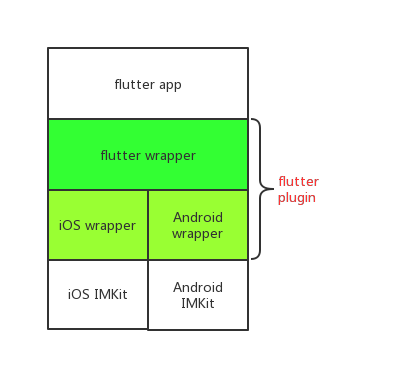
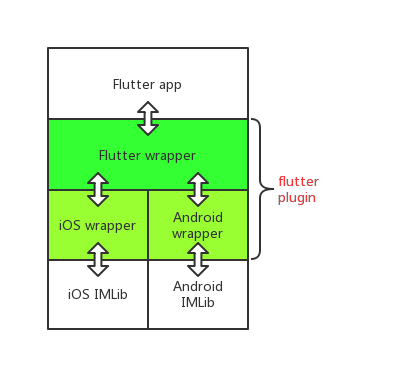
问题:更新二次开发问题 原因: 解决方案: Reviewer: 工单号: Log: X

diff --git a/doc/二次开发.md b/doc/二次开发.md
@@ -1,15 +1,24 @@
-# 融云 IM flutter plugin
+# 融云 IM Flutter Plugin
 
-本文档讲解如何二次开发 IM flutter plugin
+本文档讲解如何二次开发 IM Flutter Plugin
 
-[Flutter 官网](https://flutter.dev/)
+[Flutter 跨平台原理](https://flutter.dev/docs/development/platform-integration/platform-channels)
 
-#整体架构
+![](./../images/PlatformChannels.png)
+
+跨平台传输的数据类型对比
+
+![](./../images/PlatformChannelDataTypes.png)
+
+# 整体架构
 
 ![](./../images/flutter_plugin.png)
 
+其中绿色部分代表了整个 Flutter Plugin，包含 `Flutter wrapper`，`iOS wrapper`，`Android wrapper` 三个部分
 
-#目录结构
+双向箭头代表了代码的调用逻辑
+
+# 目录结构
 
 `android/`:Android wrapper
 
@@ -25,43 +34,24 @@
 
 `example/lib/`：Flutter app
 
-#原理
+# 原理
 
-Futter 通过 `MethodChannel` 实现与 native 的交互，可以详细[参见官网介绍](https://flutter.dev/docs/development/platform-integration/platform-channels)
+Futter 通过 `MethodChannel` 实现与 native 的交互
 
-`调用任何接口，Flutter 都会把 methodname 和 arguments 传递出去，native 需要根据 methodname 知道 Flutter 的操作，然后根据具体的 arguments 处理，反之 native 调用 flutter 也是如此`
+`调用任何接口，Flutter 都通过 MethodChannel 把 methodname 和 arguments 传递出去，native 接收然后根据 methodname 知道 Flutter 的操作，然后根据具体的 arguments 处理，反之 native 调用 Flutter 也是如此`
+
 
 `想要了解如何调用的，可以自行在 native 平台 debug`
 
+## MethodChannel 的创建
 
-# Flutter wrapper
-
-Flutter wrapper 目前所有的接口封装在 `rong_im_plugin.dart` 中，可以按需增加新的接口
-
-首先 flutter 通过一个特定的 string 获取一个 methodchannel
+`Flutter`
 
 ```
-static final MethodChannel _channel = const MethodChannel('rongcloud_im_plugin')
+static final MethodChannel _channel = const MethodChannel('rongcloud_im_plugin');
 ```
 
-所有接口全部通过该 methodchannel 进行与 native 的交互
-
-
-已有的接口
-
-`init`:初始化 SDK，对应 native 的 initWithAppkey
-
-`connet`:连接 IM ，对应 native 的 connectWithToken，因为连接是需要等异步回调的，所以 Flutter 层的写法是方法后面跟 async ，然后通过 await 来接收 native 层返回的结果
-
-
-以上各方法都可以在 `example/lib/` 的相关代码找到
-
-
-# iOS wrapper
-
-与 Flutter 交互在 `RongcloudImPlugin.m` 中
-
-iOS 通过一个特定的 string 获取一个 methodchannel，保证此处的 string 和 Flutter 的 methodchannel 一致
+`iOS`
 
 ```
 FlutterMethodChannel* channel = [FlutterMethodChannel
@@ -69,13 +59,257 @@ FlutterMethodChannel* channel = [FlutterMethodChannel
             binaryMessenger:[registrar messenger]];
 ```
 
-所有 Flutter 的接口都会通过下面接口的参数 call 获取到 methodname 和 arguments
+`Android`
 
 ```
-- (void)handleMethodCall:(FlutterMethodCall*)call result:(FlutterResult)result
+final MethodChannel channel = new MethodChannel(registrar.messenger(), "rongcloud_im_plugin");
 ```
 
-所有对 Flutter 的响应都在 `RCIMFlutterWrapper.m` 中处理
+# Flutter 与 iOS/Android 数据交互方式
+
+```
+1.iOS/Android 不给 Flutter 返回数据
+2.iOS/Android 通过 FlutterResult 给 Flutter 返回数据
+3.iOS/Android 通过 MethodChannel 给 Flutter 返回数据
+```
+
+## 1. iOS/Android 不给 Flutter 返回数据
+
+
+`Flutter`
+
+```
+static void init(String appkey) {
+    _channel.invokeMethod(RCMethodKey.Init, appkey);
+    _addNativeMethodCallHandler();
+  }
+```
+
+`iOS`
+
+```
+- (void)initWithRCIMAppKey:(id)arg {
+    NSString *LOG_TAG =  @"init";
+    [RCLog i:[NSString stringWithFormat:@"%@ start param:%@",LOG_TAG,arg]];
+    if([arg isKindOfClass:[NSString class]]) {
+        NSString *appkey = (NSString *)arg;
+        [[RCIMClient sharedRCIMClient] initWithAppKey:appkey];
+        
+        [[RCIMClient sharedRCIMClient] setReceiveMessageDelegate:self object:nil];
+        [[RCIMClient sharedRCIMClient] setRCConnectionStatusChangeDelegate:self];
+    }else {
+        NSLog(@"init 非法参数类型");
+    }
+}
+```
+
+`Android`
+
+```
+private void initRCIM(Object arg) {
+        String LOG_TAG = "init";
+        RCLog.i(LOG_TAG+" start param:"+arg.toString());
+        if(arg instanceof String) {
+            String appkey = String.valueOf(arg);
+            RongIMClient.init(mContext,appkey);
+
+            setReceiveMessageListener();
+            setConnectStatusListener();
+        }else {
+            Log.e("RCIM flutter init", "非法参数");
+        }
+    }
+```
+
+## 2. iOS/Android 通过 FlutterResult 给 Flutter 返回数据
+
+能够快速返回的数据可以采用这个方式，比如说连接 IM 的回调
+
+
+`Flutter`
+
+```
+static Future<int> connect(String token) async {
+    final int code = await _channel.invokeMethod(RCMethodKey.Connect, token);
+    return code;
+  }
+```
+
+`iOS`
+
+```
+- (void)connectWithToken:(id)arg result:(FlutterResult)result {
+    NSString *LOG_TAG =  @"connect";
+    [RCLog i:[NSString stringWithFormat:@"%@ start param:%@",LOG_TAG,arg]];
+    if([arg isKindOfClass:[NSString class]]) {
+        NSString *token = (NSString *)arg;
+        [[RCIMClient sharedRCIMClient] connectWithToken:token success:^(NSString *userId) {
+            [RCLog i:[NSString stringWithFormat:@"%@ success",LOG_TAG]];
+            result(@(0));
+        } error:^(RCConnectErrorCode status) {
+            [RCLog i:[NSString stringWithFormat:@"%@ fail %@",LOG_TAG,@(status)]];
+            result(@(status));
+        } tokenIncorrect:^{
+            [RCLog i:[NSString stringWithFormat:@"%@ fail %@",LOG_TAG,@(RC_CONN_TOKEN_INCORRECT)]];
+            result(@(RC_CONN_TOKEN_INCORRECT));
+        }];
+    }
+}
+```
+
+`Android`
+
+```
+private void connect(Object arg, final Result result) {
+        String LOG_TAG = "connect";
+        RCLog.i(LOG_TAG+" start param:"+arg.toString());
+        if(arg instanceof String) {
+            String token = String.valueOf(arg);
+            RongIMClient.connect(token, new RongIMClient.ConnectCallback() {
+                @Override
+                public void onTokenIncorrect() {
+                    mMainHandler.post(new Runnable() {
+                        @Override
+                        public void run() {
+                            RCLog.e("connect "+String.valueOf(31004));
+                            result.success(new Integer(31004));
+                        }
+                    });
+                }
+
+                @Override
+                public void onSuccess(String s) {
+                    mMainHandler.post(new Runnable() {
+                        @Override
+                        public void run() {
+                            RCLog.i("connect success");
+                            result.success(new Integer(0));
+                        }
+                    });
+                }
+
+                @Override
+                public void onError(RongIMClient.ErrorCode errorCode) {
+                    final RongIMClient.ErrorCode code = errorCode;
+                    mMainHandler.post(new Runnable() {
+                        @Override
+                        public void run() {
+                            RCLog.e("connect "+String.valueOf(code.getValue()));
+                            result.success(new Integer(code.getValue()));
+                        }
+                    });
+
+                }
+            });
+
+            fetchAllMessageMapper();
+        }else {
+
+        }
+    }
+```
+
+iOS/Android 代码中的 result 是怎么来的？
+
+当 Flutter 调用接口触发原生代码的的时候
+
+iOS 会触发下面方法
+
+```
+- (void)handleMethodCall:(FlutterMethodCall*)call result:(FlutterResult)result {
+    [[RCIMFlutterWrapper sharedWrapper] handleMethodCall:call result:result];
+}
+```
+
+Android 会触发下面方法
+
+```
+public void onMethodCall(MethodCall call, Result result) {
+    RCIMFlutterWrapper.getInstance().onFlutterMethodCall(call,result);
+  }
+```
+
+两个平台都一样，会有个 call 的对象和 result 对象
+
+call 对象里面保存了`方法名和参数`，通过方法名确定调用具体的方法;通过参数获取具体的数据 
+
+result 对象将数据返回给 Flutter 
+
+
+## 3. iOS/Android 通过 MethodChannel 给 Flutter 返回数据
+
+不确定什么时间响应的数据可以采用这个方式，比如说收到消息的回调
+
+
+`Flutter`
+
+```
+//Function 相当于 iOS 的 block 回调 ，Android 的 callback 回调
+static Function(Message msg, int left) onMessageReceived;
+
+//响应的代码
+static void _addNativeMethodCallHandler() {
+    _channel.setMethodCallHandler((MethodCall call) {
+      switch (call.method) {
+        case RCMethodCallBackKey.ReceiveMessage:
+          if (onMessageReceived != null) {
+            Map map = call.arguments;
+            int left = map["left"];
+            String messageString = map["message"];
+            Message msg = MessageFactory.instance.string2Message(messageString);
+            onMessageReceived(msg, left);
+          }
+          break;
+      }
+    });
+  }
+
+//调用的代码
+RongcloudImPlugin.onMessageReceived = (Message msg,int left) {
+      print("receive message messsageId:"+msg.messageId.toString()+" left:"+left.toString());
+    };
+```
+
+`iOS`
+
+```
+- (void)onReceived:(RCMessage *)message left:(int)nLeft object:(id)object {
+    @autoreleasepool {
+        NSMutableDictionary *dic = [NSMutableDictionary new];
+        NSString *jsonString = [RCFlutterMessageFactory message2String:message];
+        [dic setObject:jsonString forKey:@"message"];
+        [dic setObject:@(nLeft) forKey:@"left"];
+        
+        [self.channel invokeMethod:RCMethodCallBackKeyReceiveMessage arguments:dic];
+    }
+}
+```
+
+`Android`
+
+```
+RongIMClient.setOnReceiveMessageListener(new RongIMClient.OnReceiveMessageListener() {
+            @Override
+            public boolean onReceived(final Message message,final int i) {
+
+                mMainHandler.post(new Runnable() {
+                    @Override
+                    public void run() {
+                        String messageS = MessageFactory.getInstance().message2String(message);
+                        final Map map = new HashMap();
+                        map.put("message",messageS);
+                        map.put("left",i);
+                        mChannel.invokeMethod(RCMethodList.MethodCallBackKeyReceiveMessage,map);
+                    }
+                });
+
+                return false;
+            }
+        });
+```
+
+
+# 依赖 native SDK
 
 ## iOS wrapper 如何依赖 IMLib
 
@@ -84,23 +318,6 @@ FlutterMethodChannel* channel = [FlutterMethodChannel
 里面内容与标准的 podspec 一致，默认只会依赖 Flutter，只需要加上 `s.dependency 'RongCloudIM/IMLib'` 即可依赖 IMLib
 
 
-# Android wrapper
-
-与 Flutter 交互在 `RongcloudImPlugin.java` 中
-
-Android 通过一个特定的 string 获取一个 methodchannel，保证此处的 string 和 Flutter & iOS 的 methodchannel 一致
-
-```
-final MethodChannel channel = new MethodChannel(registrar.messenger(), "rongcloud_im_plugin")
-```
-
-所有 Flutter 的接口都会通过下面接口的参数 call 获取到 methodname 和 arguments
-
-```
-public void onMethodCall(MethodCall call, Result result) 
-```
-
-所有对 Flutter 的响应都在 `RCIMFlutterWrapper.java` 中处理
 
 ## Android wrapper 如何依赖 IMLib
 
@@ -128,7 +345,7 @@ dependencies {
 
 
 
-# 问题
+# 可能的问题
 
 ## Flutter wrapper 接口调用顺序是怎样的？
 
@@ -153,3 +370,7 @@ Android 依赖的 maven 管理的 IMLib，在 `./android` 目录的 `build.gradl
 `iOS wrapper`：`RCIMFlutterWrapper.m`
 
 `Android wrapper`：`RCIMFlutterWrapper.java`
+
+## 如何传递复杂的数据类型，如 iOS/Android 的 Message 对象？
+
+根据上面的跨平台传输的数据类型对比图可以知道只能传递复杂的数据类型为 String，List，Map，所以 `复杂的对象需要转成 Map 进行传递`，可以参见 native 收到消息通知 Flutter 的代码，里面涉及了消息的转换
